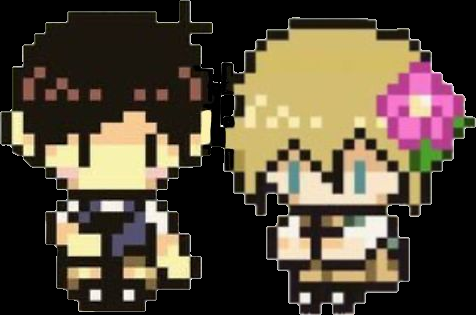
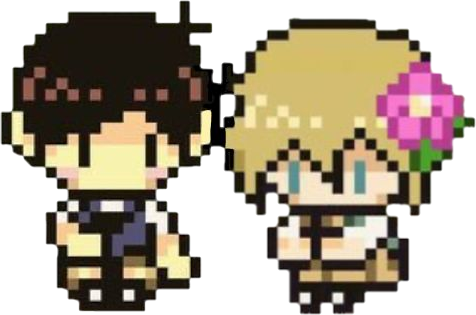
Update README layout and clean unused assets

diff --git a/README.md b/README.md
@@ -3,7 +3,7 @@
 </p>
 
 <p align="center">
-  <img src="./gif/charactor.jpg" alt="Character portrait" width="360" />
+  <img src="./gif/charactor.png" alt="Character portrait" width="360" />
 </p>
 
 <p align="left">
@@ -12,97 +12,72 @@
 
 ## About Me
 
-<table width="100%">
-  <tr>
-    <td valign="top">
-      <p>
-        Hi, I am a university student majoring in cybersecurity.
-      </p>
-      <ul>
-        <li>My primary interests include incident response, binary vulnerability analysis,<br />deobfuscation, and boot system security.</li>
-        <li>You can explore my previous projects on my profile.</li>
-        <li>Thank you for visiting my little white space.</li>
-      </ul>
-    </td>
-    <td align="right" valign="top" width="96">
-      <img src="./gif/aubrey.gif" alt="Aubrey sprite" width="84" />
-    </td>
-  </tr>
-</table>
+Hi, I am a university student majoring in cybersecurity.
+
+- My primary interests include incident response, binary vulnerability analysis,
+  deobfuscation, and boot system security.
+- You can explore my previous projects on my profile.
+- Thank you for visiting my little white space.
+
+<p align="right">
+  <img src="./gif/aubrey.gif" alt="Aubrey sprite" width="84" />
+</p>
 
 ## Tech Stacks
 
-<table width="100%">
-  <tr>
-    <td align="left" valign="top" width="96">
-      <img src="./gif/kel.webp" alt="Kel sprite" width="84" />
-    </td>
-    <td align="center">
-      <table align="center">
-        <tr>
-          <td align="center"><img src="https://skillicons.dev/icons?i=c&theme=light" alt="C" width="44" /></td>
-          <td align="center"><img src="https://skillicons.dev/icons?i=cpp&theme=light" alt="C++" width="44" /></td>
-          <td align="center"><img src="https://skillicons.dev/icons?i=docker&theme=light" alt="Docker" width="44" /></td>
-          <td align="center"><img src="https://skillicons.dev/icons?i=django&theme=light" alt="Django" width="44" /></td>
-          <td align="center"><img src="https://skillicons.dev/icons?i=mysql&theme=light" alt="MySQL" width="44" /></td>
-          <td align="center"><img src="https://skillicons.dev/icons?i=nodejs&theme=light" alt="Node.js" width="44" /></td>
-          <td align="center"><img src="https://skillicons.dev/icons?i=linux&theme=light" alt="Linux" width="44" /></td>
-        </tr>
-        <tr>
-          <td align="center"><img src="https://skillicons.dev/icons?i=py&theme=light" alt="Python" width="44" /></td>
-          <td align="center"><img src="https://skillicons.dev/icons?i=html&theme=light" alt="HTML" width="44" /></td>
-          <td align="center"><img src="https://skillicons.dev/icons?i=git&theme=light" alt="Git" width="44" /></td>
-          <td align="center"><img src="https://skillicons.dev/icons?i=java&theme=light" alt="Java" width="44" /></td>
-          <td align="center"><img src="https://skillicons.dev/icons?i=js&theme=light" alt="JavaScript" width="44" /></td>
-          <td align="center"><img src="https://skillicons.dev/icons?i=figma&theme=light" alt="Figma" width="44" /></td>
-          <td align="center">&nbsp;</td>
-        </tr>
-      </table>
-    </td>
-    <td width="96">&nbsp;</td>
-  </tr>
-</table>
+<p align="center">
+  <img src="https://skillicons.dev/icons?i=c&theme=light" alt="C" width="44" />
+  <img src="https://skillicons.dev/icons?i=cpp&theme=light" alt="C++" width="44" />
+  <img src="https://skillicons.dev/icons?i=docker&theme=light" alt="Docker" width="44" />
+  <img src="https://skillicons.dev/icons?i=django&theme=light" alt="Django" width="44" />
+  <img src="https://skillicons.dev/icons?i=mysql&theme=light" alt="MySQL" width="44" />
+  <img src="https://skillicons.dev/icons?i=nodejs&theme=light" alt="Node.js" width="44" />
+  <img src="https://skillicons.dev/icons?i=linux&theme=light" alt="Linux" width="44" />
+</p>
+
+<p align="center">
+  <img src="https://skillicons.dev/icons?i=py&theme=light" alt="Python" width="44" />
+  <img src="https://skillicons.dev/icons?i=html&theme=light" alt="HTML" width="44" />
+  <img src="https://skillicons.dev/icons?i=git&theme=light" alt="Git" width="44" />
+  <img src="https://skillicons.dev/icons?i=java&theme=light" alt="Java" width="44" />
+  <img src="https://skillicons.dev/icons?i=js&theme=light" alt="JavaScript" width="44" />
+  <img src="https://skillicons.dev/icons?i=figma&theme=light" alt="Figma" width="44" />
+</p>
+
+<p align="left">
+  <img src="./gif/kel.webp" alt="Kel sprite" width="84" />
+</p>
 
 ## Contact Me
 
-<table width="100%">
-  <tr>
-    <td width="96">&nbsp;</td>
-    <td align="center">
-      <table align="center">
-        <tr>
-          <td align="center" width="150">
-            <a href="https://www.instagram.com/b4nd59">
-              <img src="https://skillicons.dev/icons?i=instagram&theme=light" alt="Instagram" width="44" />
-            </a>
-            <br />
-            <a href="https://www.instagram.com/b4nd59"><strong>@b4nd59</strong></a>
-          </td>
-          <td align="center" width="150">
-            <img src="https://skillicons.dev/icons?i=discord&theme=light" alt="Discord" width="44" />
-            <br />
-            <strong>higary_</strong>
-          </td>
-          <td align="center" width="150">
-            <a href="https://b4nda.com">
-              <img src="./gif/kel2.gif" alt="Website" width="44" />
-            </a>
-            <br />
-            <a href="https://b4nda.com"><strong>b4nda.com</strong></a>
-          </td>
-        </tr>
-      </table>
-    </td>
-    <td align="right" valign="top" width="96">
-      <img src="./gif/sprout.png" alt="Sprout Mole character" width="84" />
-    </td>
-  </tr>
-</table>
+<p align="center">
+  <a href="https://www.instagram.com/b4nd59">
+    <img src="https://skillicons.dev/icons?i=instagram&theme=light" alt="Instagram" width="44" />
+  </a>
+  &nbsp;&nbsp;
+  <img src="https://skillicons.dev/icons?i=discord&theme=light" alt="Discord" width="44" />
+  &nbsp;&nbsp;
+  <a href="https://b4nda.com">
+    <img src="./gif/kel2.gif" alt="Website" width="44" />
+  </a>
+</p>
+
+<p align="center">
+  <a href="https://www.instagram.com/b4nd59"><strong>@b4nd59</strong></a>
+  &nbsp;&nbsp;&nbsp;
+  <strong>higary_</strong>
+  &nbsp;&nbsp;&nbsp;
+  <a href="https://b4nda.com"><strong>b4nda.com</strong></a>
+</p>
+
+<p align="right">
+  <img src="./gif/sprout.png" alt="Sprout Mole character" width="84" />
+</p>
 
 ## Stats
 
 <p align="center">
-  <img src="https://pixel-profile.vercel.app/api/github-stats?username=banda&theme=crt" alt="Pixel profile GitHub stats" />
+  <img src="https://github-readme-stats.vercel.app/api?username=banda59&show_icons=true&hide_border=true&bg_color=ffffff&title_color=111111&text_color=111111&icon_color=111111" alt="GitHub stats" />
 </p>
 
 <p align="center">
